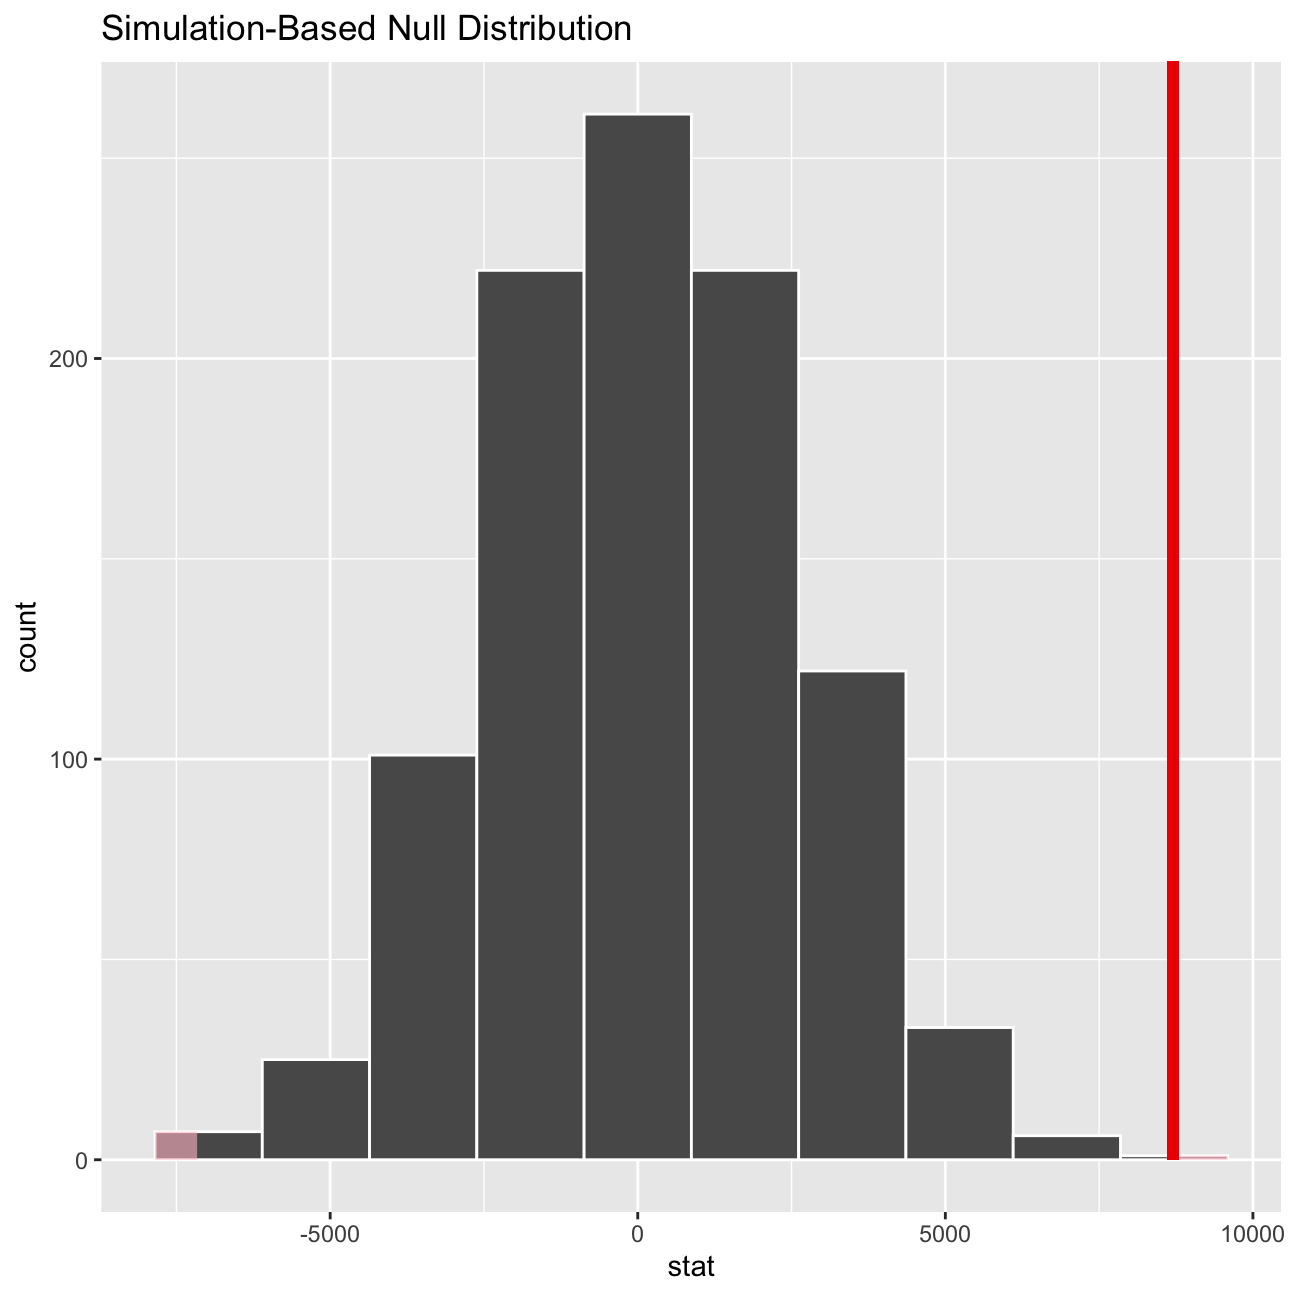
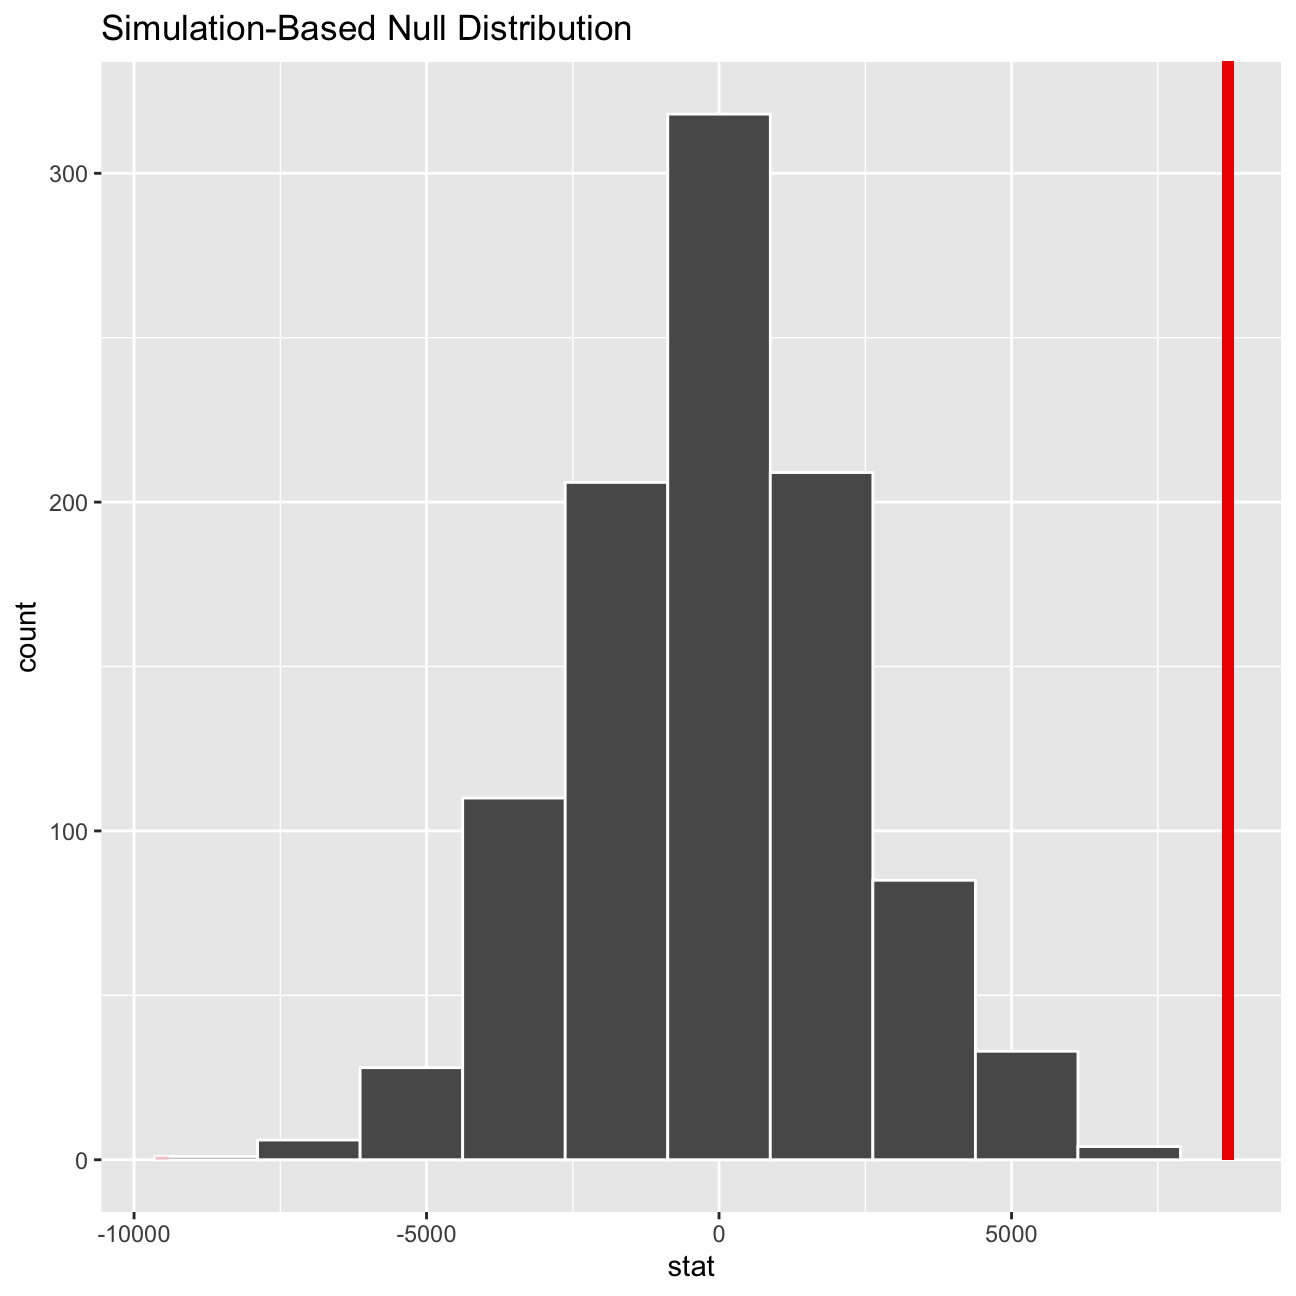
34

diff --git a/public/projects/project4/index.html b/public/projects/project4/index.html
@@ -81,8 +81,9 @@
                             
 
 
-<p><img src="https://cdn.lawyer-monthly.com/Lawyer-Monthly/wp-content/uploads/2017/11/Equality-Men-Earned-30-More-Than-Women-Last-Year.jpg" />
-# Omega Group - Pay Discrimination</p>
+<p><img src="https://cdn.lawyer-monthly.com/Lawyer-Monthly/wp-content/uploads/2017/11/Equality-Men-Earned-30-More-Than-Women-Last-Year.jpg" /></p>
+<div id="omega-group---pay-discrimination" class="section level1">
+<h1>Omega Group - Pay Discrimination</h1>
 <p>At the last board meeting of Omega Group Plc., the headquarters of a large multinational company, the issue was raised that women were being discriminated in the company, in the sense that the salaries were not the same for male and female executives. A quick analysis of a sample of 50 employees (of which 24 men and 26 women) revealed that the average salary for men was about 8,700 higher than for women. This seemed like a considerable difference, so it was decided that a further analysis of the company salaries was warranted.</p>
 <div id="loading-the-data" class="section level2">
 <h2>Loading the data</h2>
@@ -235,18 +236,18 @@ t_test_tidy</code></pre>
 
 null_distribution</code></pre>
 <pre><code>## # A tibble: 1,000 x 2
-##    replicate    stat
-##        &lt;int&gt;   &lt;dbl&gt;
-##  1         1 -1502. 
-##  2         2  -634. 
-##  3         3  3316. 
-##  4         4 -1866. 
-##  5         5  -114. 
-##  6         6  2828. 
-##  7         7 -1502. 
-##  8         8   242. 
-##  9         9 -1130. 
-## 10        10    51.6
+##    replicate   stat
+##        &lt;int&gt;  &lt;dbl&gt;
+##  1         1 -3130.
+##  2         2   969.
+##  3         3  -296.
+##  4         4 -1147.
+##  5         5  1630.
+##  6         6  2035.
+##  7         7  1457.
+##  8         8  3043.
+##  9         9 -3411.
+## 10        10  -370.
 ## # … with 990 more rows</code></pre>
 <pre class="r"><code># visualize the p-value 
 
@@ -411,18 +412,18 @@ t_test_exp_tidy</code></pre>
 
 null_distribution</code></pre>
 <pre><code>## # A tibble: 1,000 x 2
-##    replicate    stat
-##        &lt;int&gt;   &lt;dbl&gt;
-##  1         1 -1502. 
-##  2         2  -634. 
-##  3         3  3316. 
-##  4         4 -1866. 
-##  5         5  -114. 
-##  6         6  2828. 
-##  7         7 -1502. 
-##  8         8   242. 
-##  9         9 -1130. 
-## 10        10    51.6
+##    replicate   stat
+##        &lt;int&gt;  &lt;dbl&gt;
+##  1         1 -3130.
+##  2         2   969.
+##  3         3  -296.
+##  4         4 -1147.
+##  5         5  1630.
+##  6         6  2035.
+##  7         7  1457.
+##  8         8  3043.
+##  9         9 -3411.
+## 10        10  -370.
 ## # … with 990 more rows</code></pre>
 <pre class="r"><code># Visualize p value 
 
@@ -483,6 +484,7 @@ ggplot(omega, aes(x = experience, y=salary,color=gender))+
   
   NULL</code></pre>
 <p><img src="/projects/project4_files/figure-html/salary_exp_scatter-1.png" width="648" style="display: block; margin: auto;" /></p>
+</div>
 </div>
 <div id="uk-gender-pay-gap-2017" class="section level1">
 <h1>UK Gender Pay Gap 2017</h1>
